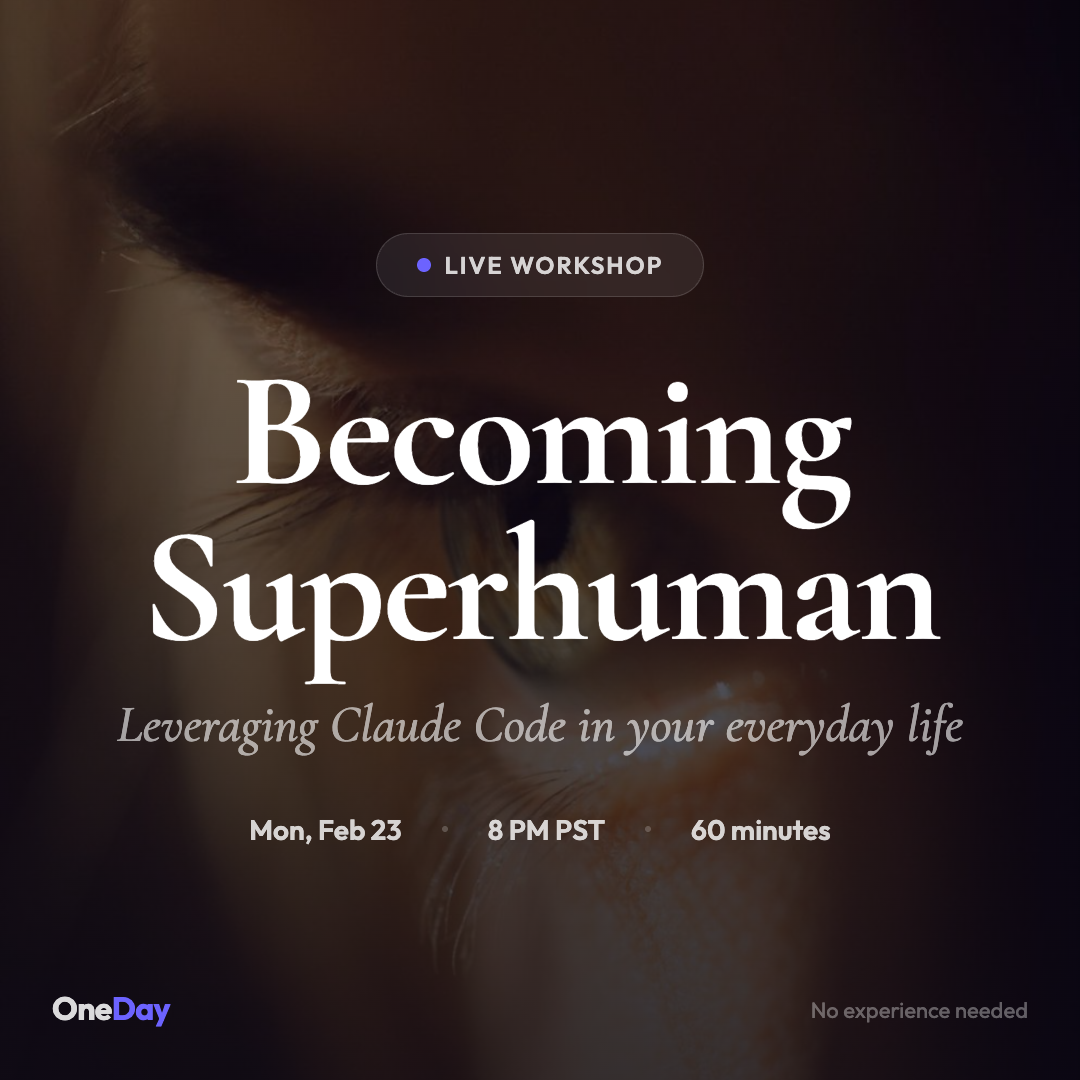
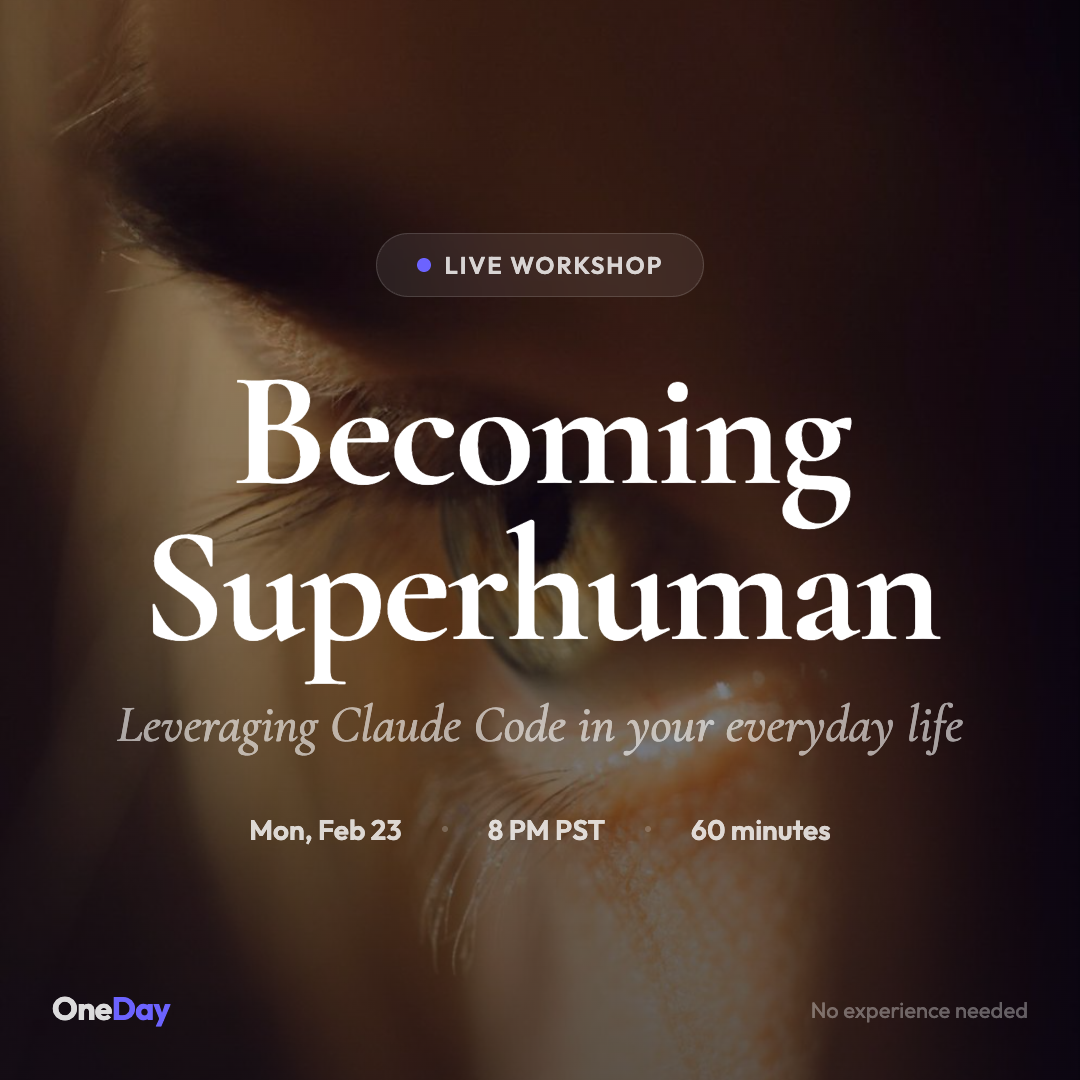
Reduce overlay opacity on workshop cover for more image visibility

Changed region(s): [[0.0611, 0.2139, 0.7639, 1.0], [0.0, 0.0, 0.0611, 0.1222], [0.1222, 0.0, 0.1528, 0.0611]]

diff --git a/public/workshop-cover.html b/public/workshop-cover.html
@@ -25,9 +25,9 @@
       position: absolute; inset: 0;
       background: linear-gradient(
         to bottom,
-        rgba(10, 8, 20, 0.5) 0%,
-        rgba(10, 8, 20, 0.65) 40%,
-        rgba(10, 8, 20, 0.82) 100%
+        rgba(10, 8, 20, 0.3) 0%,
+        rgba(10, 8, 20, 0.45) 40%,
+        rgba(10, 8, 20, 0.65) 100%
       );
     }
 
